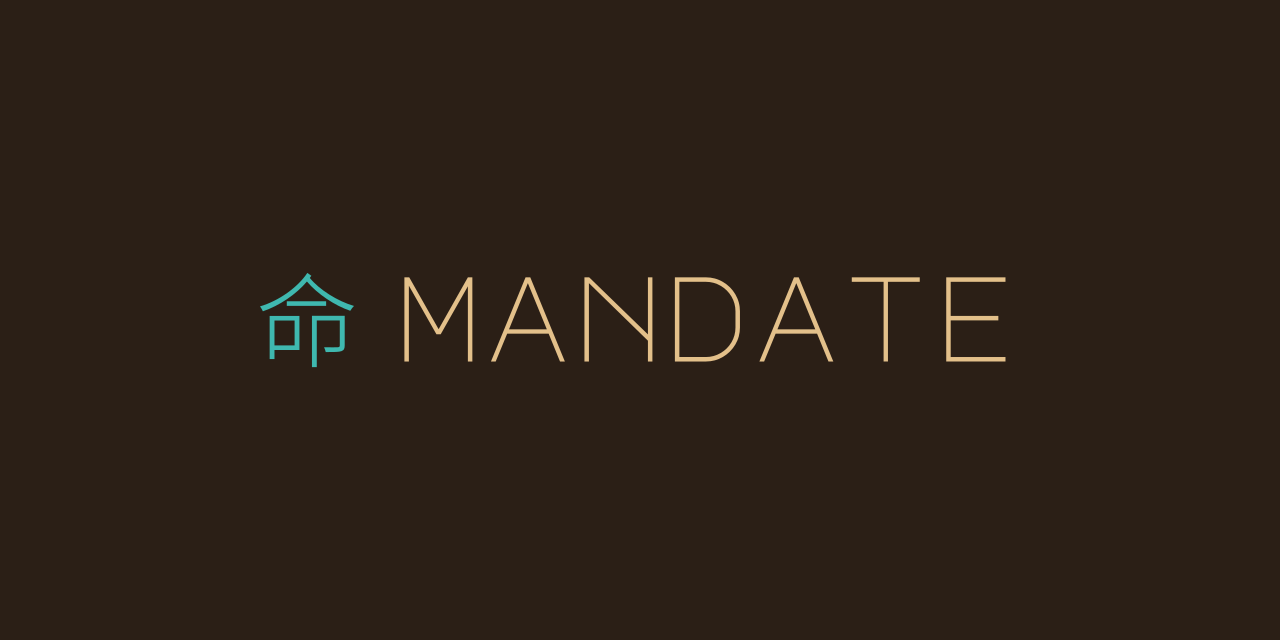
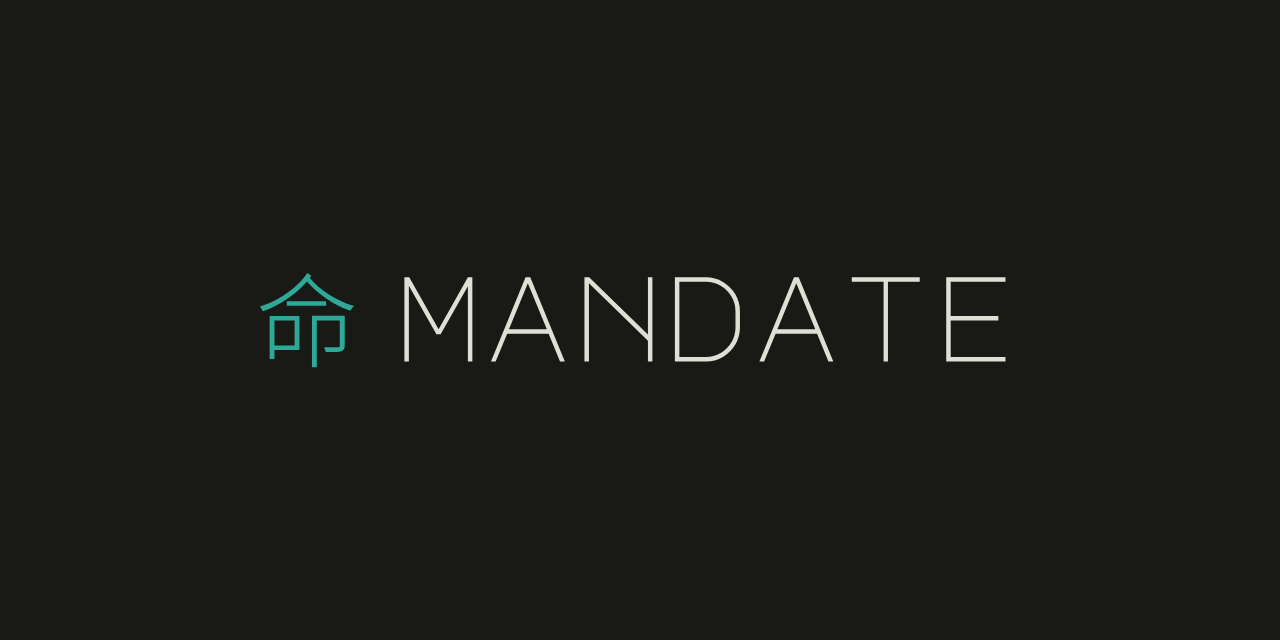
feat: ink olive ground for the identity
Ground #191a15, light #dee0d6. The word takes the text colour, so 命 is
the only colour in the lockup. Dark 命 moves to #2fa89a (CIEDE2000 17.2
from Astral cyan; #3fb8af was 12.4). Done status follows muted.
Assets recoloured; geometry unchanged.

Closes #57

Claude-Session: https://claude.ai/code/session_01QzbhQAywTinGKbFzt1h2Ys

Changed region(s): [[0.3125, 0.4062, 0.6562, 0.5625], [0.6562, 0.4062, 0.7812, 0.5625], [0.75, 0.4062, 0.7812, 0.4375]]

diff --git a/docs/brand.md b/docs/brand.md
@@ -30,17 +30,19 @@ Construction, in the word's cap height (C):
 
 ## Colour
 
-Turquoise inlay: Shang and Zhou bronzes were inlaid with turquoise. No red.
+Turquoise inlay on ink olive: Shang and Zhou bronzes were inlaid with turquoise. No red.
+
+命 is the only colour in the lockup; the word takes the text colour.
 
 | Role | Dark | Light |
 |---|---|---|
-| Background | `#2b1f16` | `#efe5d2` |
-| Surface | `#36281d` | `#e5d9c2` |
-| Line | `#4a3828` | `#cdbfa5` |
-| Text | `#efe5d2` | `#2b1f16` |
-| Muted | `#b3a28c` | `#6e6253` |
-| 命 | `#3fb8af` | `#186861` |
-| Word | `#e3c08a` | `#6b4a2a` |
+| Background | `#191a15` | `#dee0d6` |
+| Surface | `#242521` | `#d2d4ca` |
+| Line | `#3e3f3a` | `#b7b8af` |
+| Text | `#dee0d6` | `#191a15` |
+| Muted | `#a3a59c` | `#585953` |
+| 命 | `#2fa89a` | `#186861` |
+| Word | `#dee0d6` | `#191a15` |
 
 All text roles are at least 4.5:1 on their background.
 
@@ -50,11 +52,11 @@ Colour is never the only signal; each state has a glyph.
 
 | State | Glyph | Dark | Light |
 |---|---|---|---|
-| active | ● | `#3fb8af` | `#186861` |
+| active | ● | `#2fa89a` | `#186861` |
 | gate | ◐ | `#e3c08a` | `#7a5530` |
 | blocked | ○ | `#8fa9ee` | `#2f4fa8` |
 | info | ◆ | `#7cc79b` | `#2b6b4c` |
-| done | ✓ | `#b8a892` | `#6e6253` |
+| done | ✓ | `#a3a59c` | `#585953` |
 
 ## Icon masters
 

diff --git a/CHANGELOG.md b/CHANGELOG.md
@@ -21,3 +21,4 @@
 - Spec: required checks must run on every PR; project CI exposes one aggregate `ci` job.
 - Spec: agents keep taking issues after reporting; idle active projects are reported stalled.
 - Agents push branches; the `agent-pr` workflow opens PRs as the App. Rulesets have no bypass (ADR-0015, supersedes ADR-0013).
+- Identity: ink olive ground (`#191a15`, light `#dee0d6`); the word takes the text colour, so 命 is the only colour in the lockup; dark 命 is `#2fa89a`.
